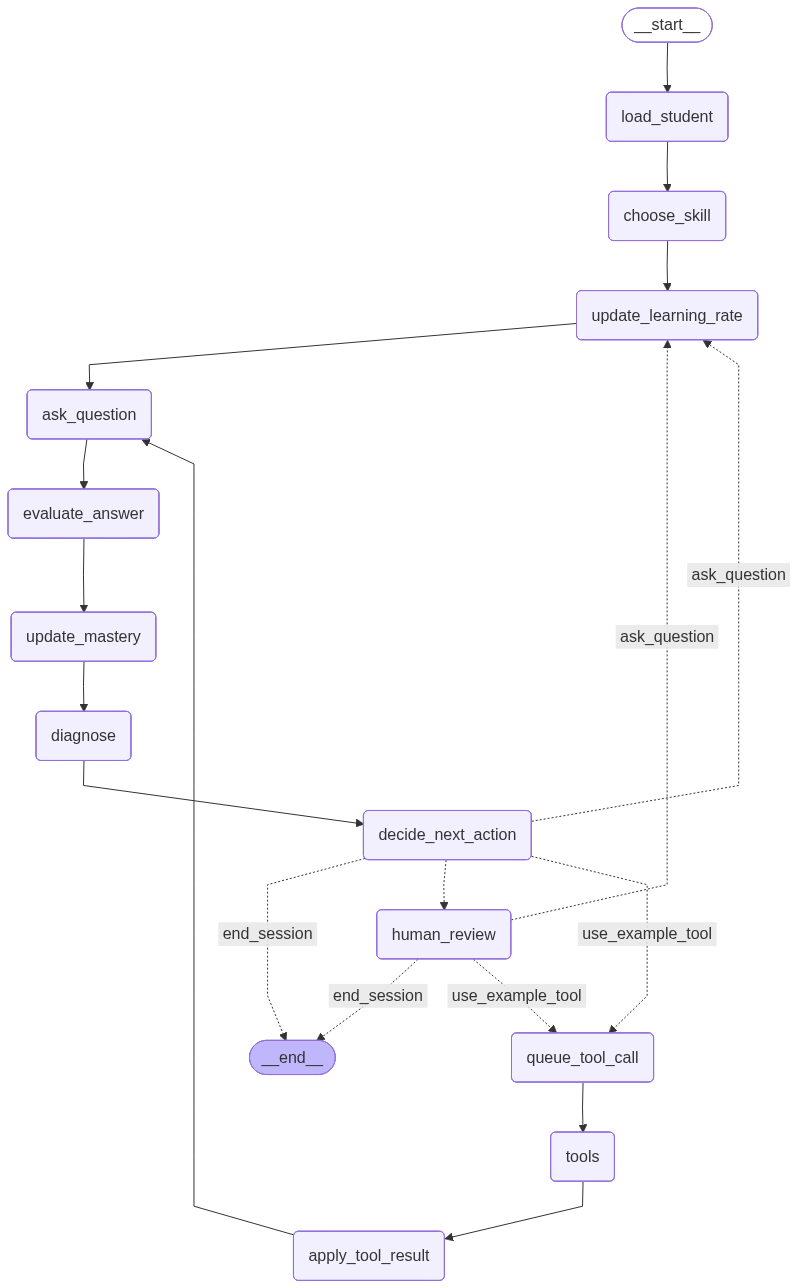
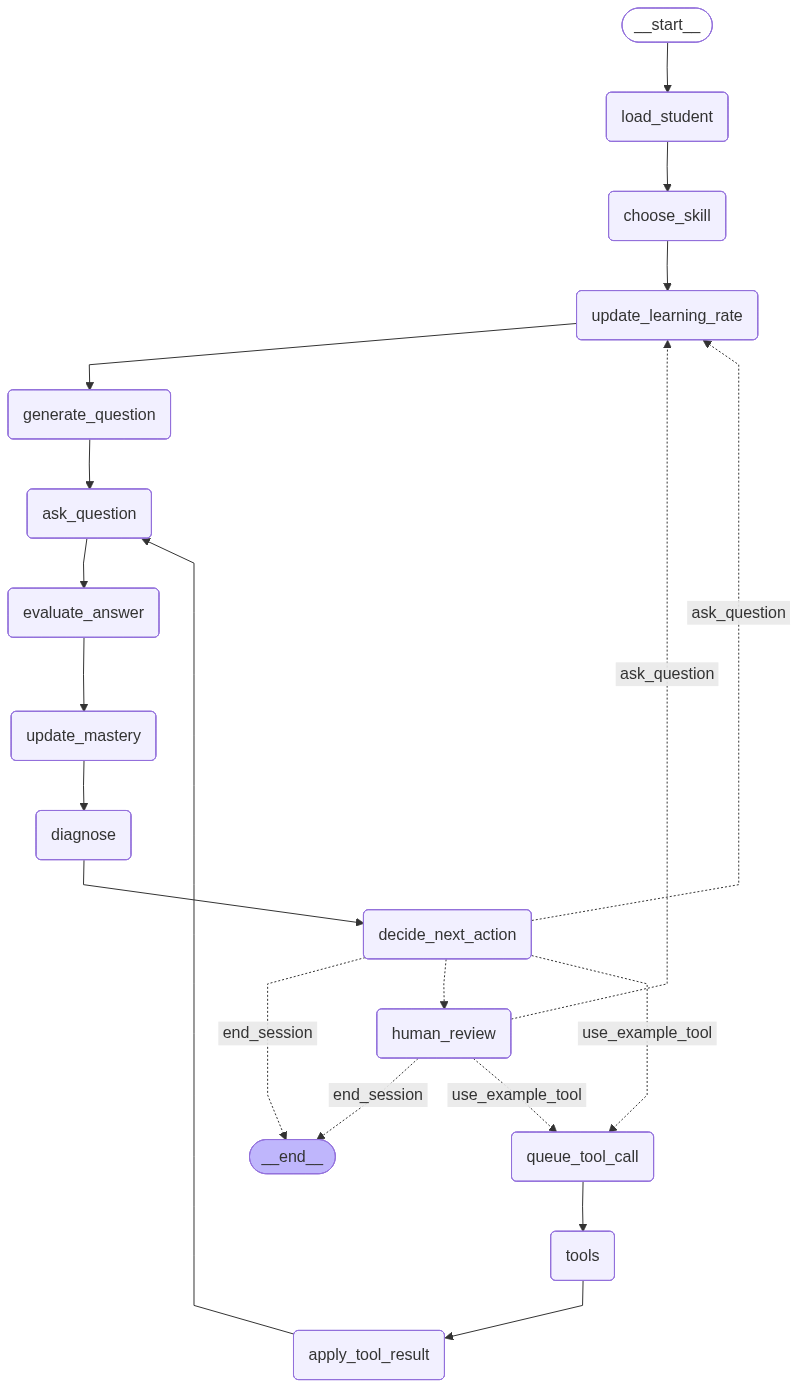
split question generation and asking question

diff --git a/tutor/services/question.py b/tutor/services/question.py
@@ -1,105 +1,26 @@
 from tutor.schemas.state import TutorState
-from tutor.schemas.outputs import QuestionOut
 from langgraph.types import interrupt
-from tutor.retrieval.context import question_context
-from tutor.models import llm
-
-import random
-from langchain_core.prompts import ChatPromptTemplate
-
-prompt = ChatPromptTemplate.from_template("""
-You are an adaptive physics tutor.
-
-Create ONE learner-facing question for physics of: {skill}.
-at difficulty level: {mastery}*10. On the scale of 0 to 10. With 0 meaning no experience and 10 meaning extremely difficult.
-Use the lesson content: {context_prompt}
-
-Optional support context:
-{support}
-
-Return:
-- One question
-- 3 answer options
-- Correct answer
-
-Rules for question:
-- Keep it brief.
-- Ask only one thing.
-- Do not include the answer in question.
-- Make sure the question is not in {correctly_answered_questions}
-
-Rules for 3 answer_options
-- Provide exactly one correct option
-- two incorrect but plausible option.
-- Shuffle the order of the answer_options.
-- The correct option could be 1st or 2nd or 3rd, keep it random
-
-Rules for correct answer
-- It should be one of the three answer_options
-""")
-
-chain = prompt | llm.with_structured_output(QuestionOut)
 
 def ask_question(state: TutorState):
     skill = state["current_skill"]
     mastery = state["mastery"][skill]
     support = state.get("tool_context") or ""
 
-    is_correct = state.get("is_correct", True)
-
-    if not is_correct:
-        learner_answer = interrupt(
-            {
-                "kind": "student_answer",
-                "question": state['current_question'],
-                "options": state['current_options'],
-                "skill": skill,
-                "support_context": support,
-                "mastery": mastery,
-            }
-        )
-
-        return {
-            "current_question": state['current_question'],
-            "current_options": state['current_options'],
-            "correct_last_answer": state["correct_last_answer"],
-            "last_answer": learner_answer,
-            "tool_context": None,  # consume tool context once used
-        }
-
-    else:
-
-        context_prompt = question_context(state)
-        correctly_answered_questions = state["answered_questions"]
-
-        #question_and_answer = llm.invoke(prompt).content.strip()
-        question_and_answer = chain.invoke({
+    learner_answer = interrupt(
+        {
+            "kind": "student_answer",
+            "question": state['current_question'],
+            "options": state['current_options'],
             "skill": skill,
+            "support_context": support,
             "mastery": mastery,
-            "context_prompt": context_prompt,
-            "support": support,
-            "correctly_answered_questions": correctly_answered_questions,
-
-
-        })
-
-        random.shuffle(question_and_answer.answer_options)
-
-        learner_answer = interrupt(
-            {
-                "kind": "student_answer",
-                "question": question_and_answer.question,
-                "options": question_and_answer.answer_options,
-                "skill": skill,
-                "support_context": support,
-                "mastery": mastery,
-            }
-        )
-
-        return {
-            "current_question": question_and_answer.question,
-            "current_options": question_and_answer.answer_options,
-            "correct_last_answer": question_and_answer.correct_answer,
-            "last_answer": learner_answer,
-            "tool_context": None,  # consume tool context once used
         }
+    )
+
+    return {
+        "current_question": state['current_question'],
+        "current_options": state['current_options'],
+        "correct_last_answer": state["correct_last_answer"],
+        "last_answer": learner_answer,
+        "tool_context": None,  # consume tool context once used
+    }

diff --git a/tutor/services/generate.py b/tutor/services/generate.py
@@ -1,0 +1,80 @@
+from tutor.schemas.state import TutorState
+from tutor.schemas.outputs import QuestionOut
+from langgraph.types import interrupt
+from tutor.retrieval.context import question_context
+from tutor.models import llm
+
+import random
+from langchain_core.prompts import ChatPromptTemplate
+
+prompt = ChatPromptTemplate.from_template("""
+You are an adaptive physics tutor.
+
+Create ONE learner-facing question for physics of: {skill}.
+at difficulty level: {mastery}*10. On the scale of 0 to 10. With 0 meaning no experience and 10 meaning extremely difficult.
+Use the lesson content: {context_prompt}
+
+Optional support context:
+{support}
+
+Return:
+- One question
+- 3 answer options
+- Correct answer
+
+Rules for question:
+- Keep it brief.
+- Ask only one thing.
+- Do not include the answer in question.
+- Make sure the question is not in {correctly_answered_questions}
+
+Rules for 3 answer_options
+- Provide exactly one correct option
+- two incorrect but plausible option.
+- Shuffle the order of the answer_options.
+- The correct option could be 1st or 2nd or 3rd, keep it random
+
+Rules for correct answer
+- It should be one of the three answer_options
+""")
+
+chain = prompt | llm.with_structured_output(QuestionOut)
+
+def generate_question(state: TutorState):
+    skill = state["current_skill"]
+    mastery = state["mastery"][skill]
+    support = state.get("tool_context") or ""
+
+    is_correct = state.get("is_correct", True)
+
+    if not is_correct:
+
+        return {
+            "current_question": state['current_question'],
+            "current_options": state['current_options'],
+            "correct_last_answer": state["correct_last_answer"],
+            "tool_context": None,  # consume tool context once used
+        }
+
+    else:
+
+        context_prompt = question_context(state)
+        correctly_answered_questions = state["answered_questions"]
+
+        #question_and_answer = llm.invoke(prompt).content.strip()
+        question_and_answer = chain.invoke({
+            "skill": skill,
+            "mastery": mastery,
+            "context_prompt": context_prompt,
+            "support": support,
+            "correctly_answered_questions": correctly_answered_questions,
+        })
+
+        random.shuffle(question_and_answer.answer_options)
+
+        return {
+            "current_question": question_and_answer.question,
+            "current_options": question_and_answer.answer_options,
+            "correct_last_answer": question_and_answer.correct_answer,
+            "tool_context": None,  # consume tool context once used
+        }

diff --git a/tutor/builder.py b/tutor/builder.py
@@ -5,6 +5,7 @@ from dotenv import load_dotenv
 from tutor.schemas.state import TutorState
 
 from tutor.services.learning_rate import update_learning_rate
+from tutor.services.generate import generate_question
 from tutor.services.question import ask_question
 from tutor.services.evaluation import evaluate_answer
 from tutor.services.mastery import update_mastery
@@ -24,6 +25,7 @@ builder = StateGraph(TutorState)
 builder.add_node("load_student", load_student)
 builder.add_node("choose_skill", choose_skill)
 builder.add_node("update_learning_rate", update_learning_rate)
+builder.add_node("generate_question", generate_question)
 builder.add_node("ask_question", ask_question)
 builder.add_node("evaluate_answer", evaluate_answer)
 builder.add_node("update_mastery", update_mastery)
@@ -37,7 +39,8 @@ builder.add_node("apply_tool_result", apply_tool_result)
 builder.add_edge(START, "load_student")
 builder.add_edge("load_student", "choose_skill")
 builder.add_edge("choose_skill", "update_learning_rate")
-builder.add_edge("update_learning_rate", "ask_question")
+builder.add_edge("update_learning_rate", "generate_question")
+builder.add_edge("generate_question", "ask_question")
 builder.add_edge("ask_question", "evaluate_answer")
 builder.add_edge("evaluate_answer", "update_mastery")
 builder.add_edge("update_mastery", "diagnose")
@@ -70,6 +73,6 @@ builder.add_conditional_edges(
 
 builder.add_edge("queue_tool_call", "tools")
 builder.add_edge("tools", "apply_tool_result")
-builder.add_edge("apply_tool_result", "ask_question")
+builder.add_edge("apply_tool_result", "generate_question")
 
 graph = builder.compile(checkpointer=InMemorySaver())
